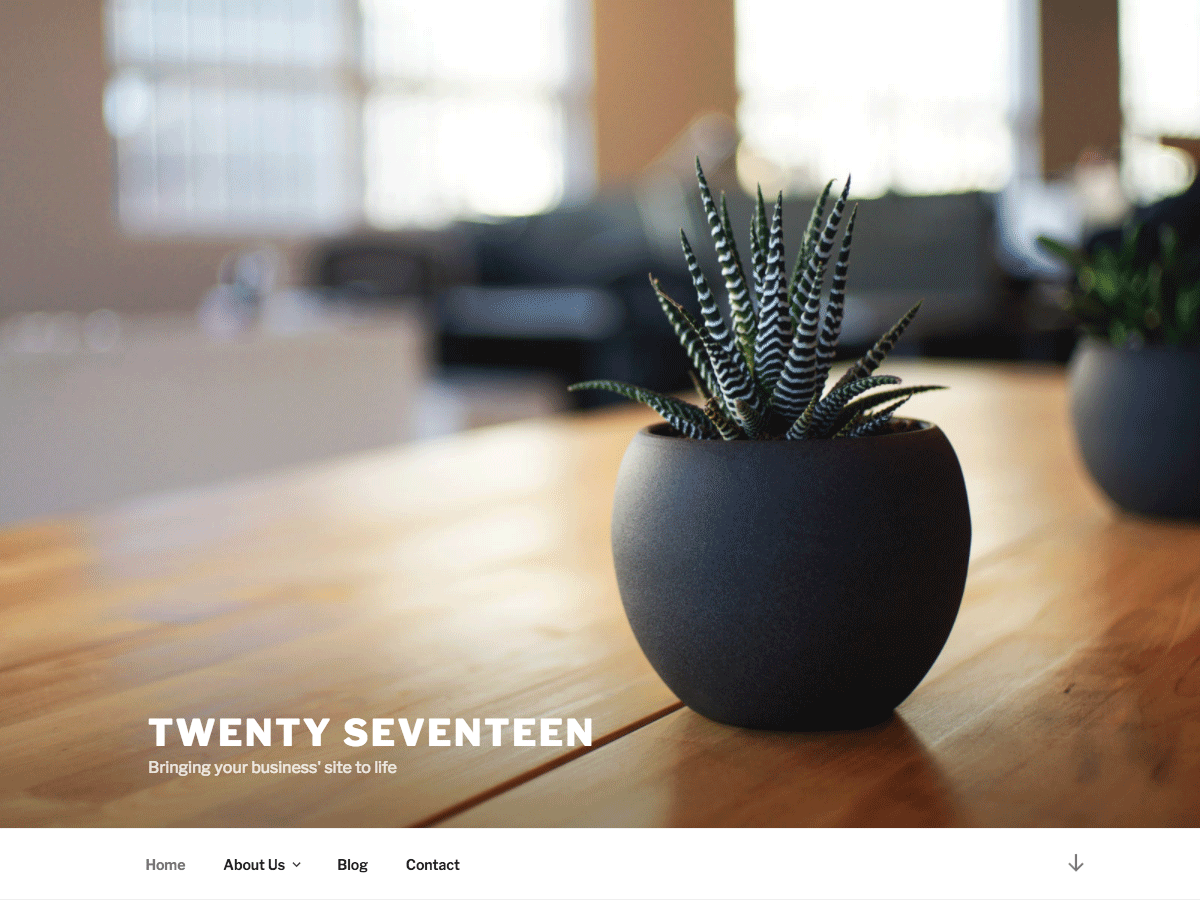
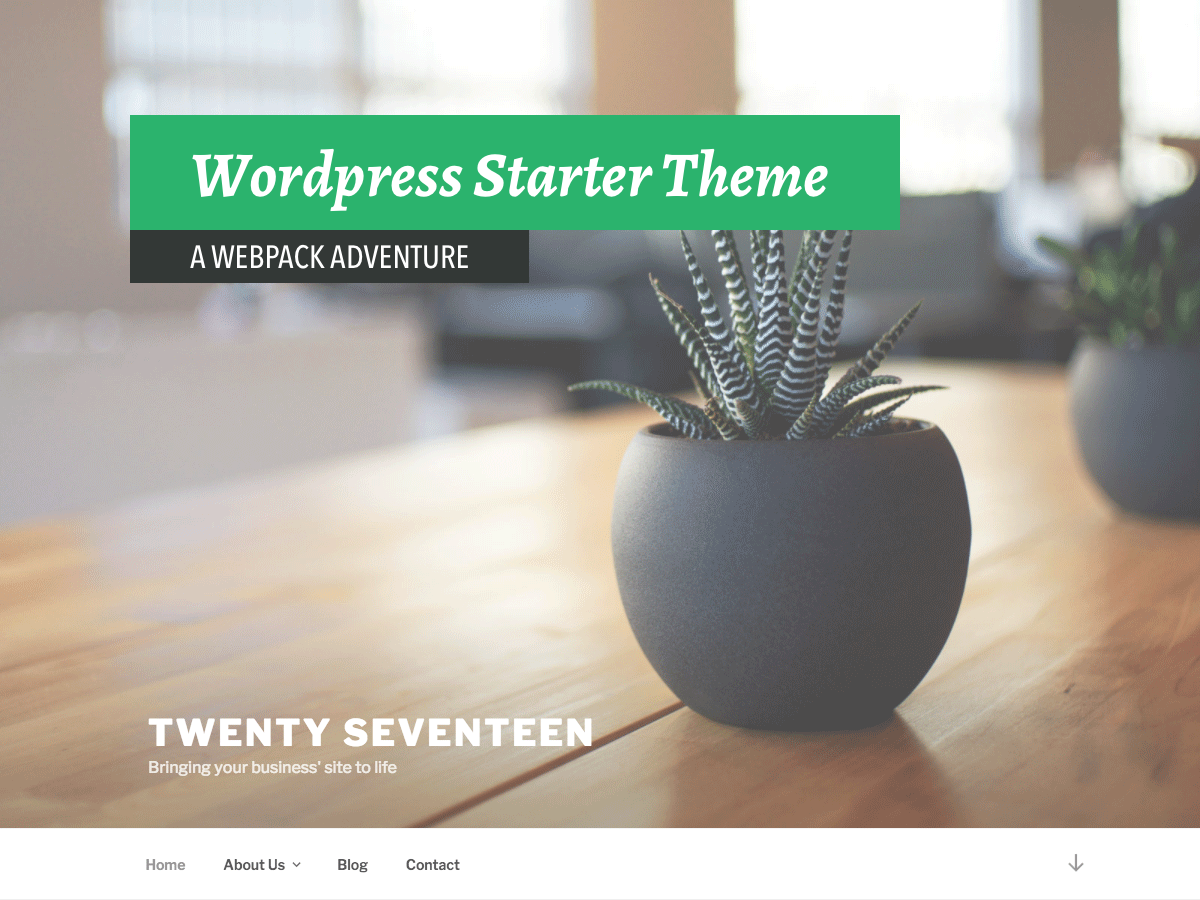
Simplified WP installation process Added support for template hot reload \o/ Cleaned dependencies Improved visual elements

diff --git a/src/styles/index.scss b/src/styles/index.scss
@@ -1,15 +1,42 @@
-body:before {
-    background: rgb(189, 38, 38);
-    border: 1px solid rgb(133, 46, 6);
-    content: "Wordpress Theme Starter is working!";
+@keyframes slide-left {
+    0% {
+        transform: translateX(-100%);
+        margin-left: 0;
+    }
+    15% {
+        transform: translateX(0%);
+        margin-left: 0;
+    }
+    90% {
+        transform: translateX(0%);
+        margin-left: 0;
+    }
+    100% {
+        transform: translateX(-100%);
+        margin-left: 10px;
+    }
+}
+
+#wst-banner {
+    animation: slide-left 5s ease 1;
+    background: #2BB36D;
     color: #fff;
-    font: bold 14px/20px Verdana, sans-serif;
-    left: 50%;
-    margin: 0 0 0 (- 150px - 40px);
-    padding: 15px 40px;
+    cursor: pointer;
+    font: bold italic 32px Palatino, Georgia, sans-serif;
+    left: 0;
+    margin: 35px 0;
+    margin-left: 10px;
+    max-width: 100%;
+    padding: 16px 32px;
     position: fixed;
-    text-align: center;
-    top: 35px;
-    width: 300px;
+    text-align: left;
+    top: 0;
+    transform: translateX(-100%);
+    transition: all 0.35s ease;
+    width: auto;
     z-index: 999999;
+    &:hover {
+        transform: translateX(0%);
+        margin-left: 0;
+    }
 }

diff --git a/webpack.dev.js b/webpack.dev.js
@@ -1,6 +1,5 @@
 const merge = require('webpack-merge');
 const path = require('path');
-const OpenBrowserPlugin = require('open-browser-webpack-plugin');
 const { compiler, THEME_NAME } = require('./webpack.common.js');
 
 const proxyConfig = {
@@ -14,7 +13,6 @@ const proxyConfig = {
     secure: false
 }
 
-console.log(`./dist/${THEME_NAME}/assets`);
 module.exports = merge(compiler, {
     context: path.resolve(__dirname, './'),
     devtool: 'eval-source-map',
@@ -25,7 +23,5 @@ module.exports = merge(compiler, {
             '**': proxyConfig,
         },
     },
-    plugins: [
-        new OpenBrowserPlugin({ url: 'http://localhost:3000' }),
-    ],
+    plugins: [],
 });

diff --git a/src/js/index.js b/src/js/index.js
@@ -5,4 +5,9 @@ document.addEventListener('DOMContentLoaded', function() {
             link.setAttribute('href', link.getAttribute("href").replace('localhost', 'localhost:3000'));
         });
     }
+
+    const wstBanner = document.createElement('span');
+    wstBanner.setAttribute('id', 'wst-banner');
+    wstBanner.innerText = "Wordpress Theme Starter is working!";
+    document.body.appendChild(wstBanner);
 }, false);

diff --git a/README.md b/README.md
@@ -19,31 +19,20 @@ This process usually last several minutes. At the end, the browser automatically
 
 Before anything else, you'll need to **complete the Wordpress installation** and **choose the right theme**.
 
-1. Create the database
-   - Open PhpMyAdmin http://localhost:8080
-   - Log in using the username `root` and the password `wordpress`
-   - On the top left angle, click on the link to create a new database
-   - Set a name for this database (eg: "mywebsite") and validate
-2. Complete installation of Wordpress
+1. Complete installation of Wordpress
    - Choose your language
-   - Set the database using the settings:
-     - database: `mywebsite` (or whatever you chose in the previous step)
-     - username: `root`
-     - password: `wordpress`
-     - host: `db`
    - Complete the installation and choose a username and password for your administrator account
 3. Set the theme
    - Go to the Wordpress dashboard (http://localhost/wp-admin/)
-   - Go to "Appareances" > "Themes" to choose a the Wordpress Starter Theme that goes by the name "Twenty Seventeen/my-wordpress-theme" (don't be mistaken as there are 2 Twenty Seventeen themes)
-   - Activate the theme
+   - Go to "Appareances" > "Themes" to activate the Wordpress Starter Theme
 
-If everything is working fine, you should see a "Wordpress Starter Theme is working!" message on http://localhost:3000.
+If everything is working fine, you should see a "Wordpress Starter Theme is working!" message when loading http://localhost:3000.
 
 ### Development
 
 If not already started, run `npm start`. This will open the http://localhost:3000 page on your browser. Any change you make to the `src/styles/index.scss` and `src/js/index.js` files are automatically previewed in your browser.
 
-The CSS and Javascript written in the `src/styles/` and `src/js/`, as well as images in these folders, are automatically applied without refreshing the browser. You can also change the theme files (`.php` files) but you'll need to **refresh manually** the webpage to see the changes.
+The CSS and Javascript written in the `src/styles/` and `src/js/` (as well as images in these folders) and **all template files** are automatically applied without refreshing the browser.
 
 
 ## Publishing
@@ -91,7 +80,7 @@ These defaults values can be modified in the `docker-compose.yml` file.
 
 If you like this project, please let us know :)
 
-If you want to contribute to enhance the process, there are certainly a lot of things to do: linting, formatting, auto reload when a php file is changed, etc.
+If you want to contribute to enhance the process, there are certainly a lot of things to do: linting, formatting, etc.
 
 This project has been based mostly on the [Webpack Wordpress project](https://github.com/sloansparger/webpack-wordpress). Thanks to the author(s)!
 
